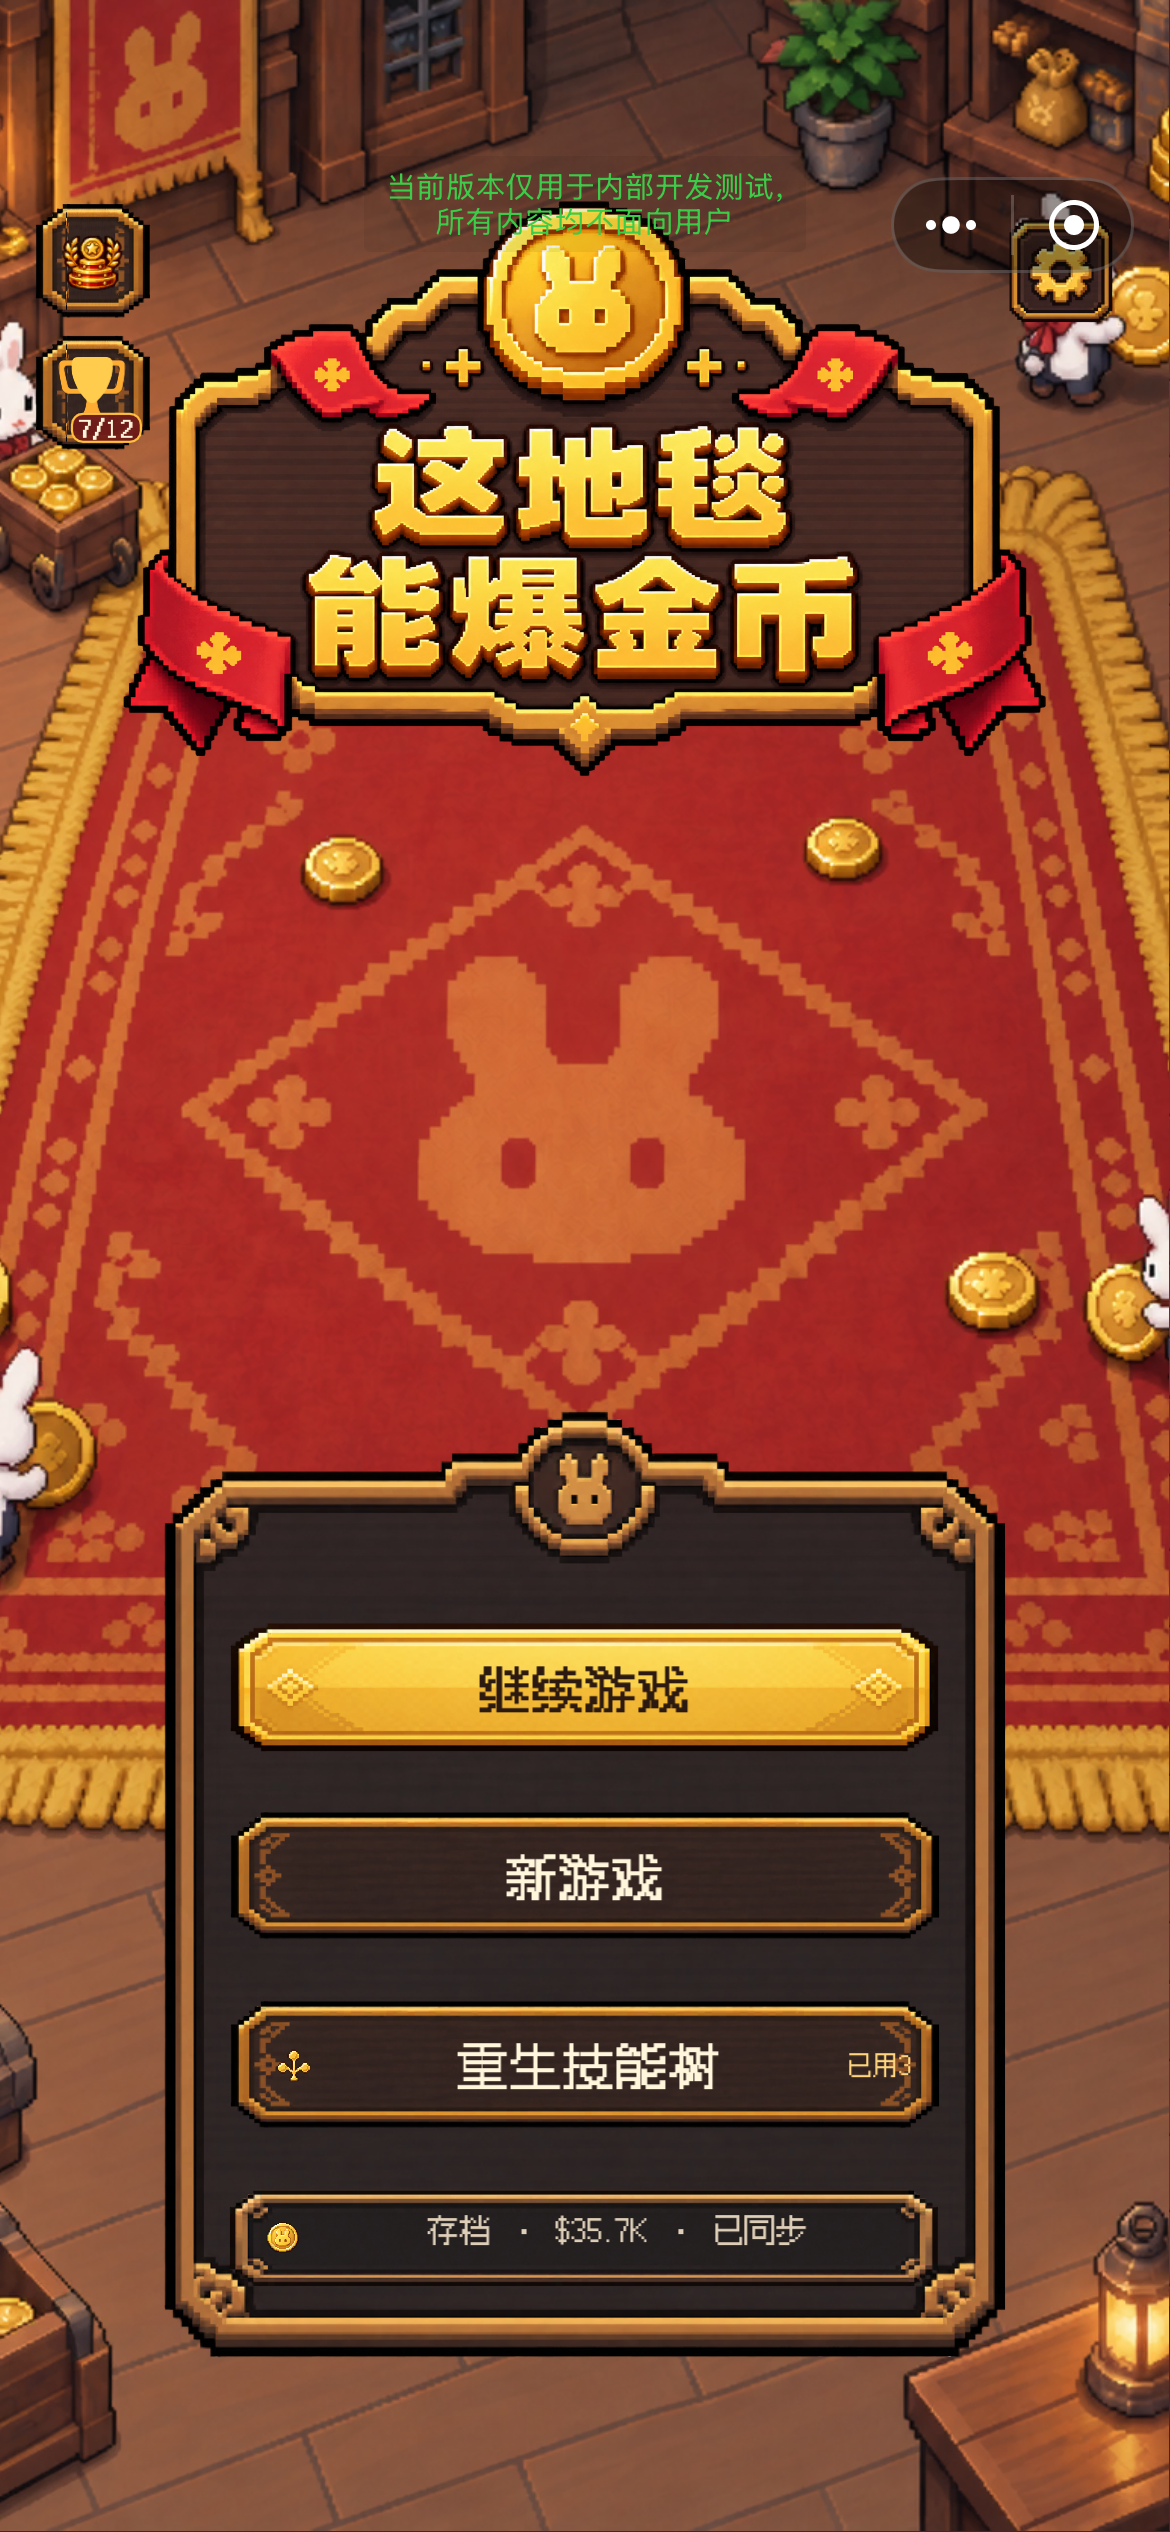
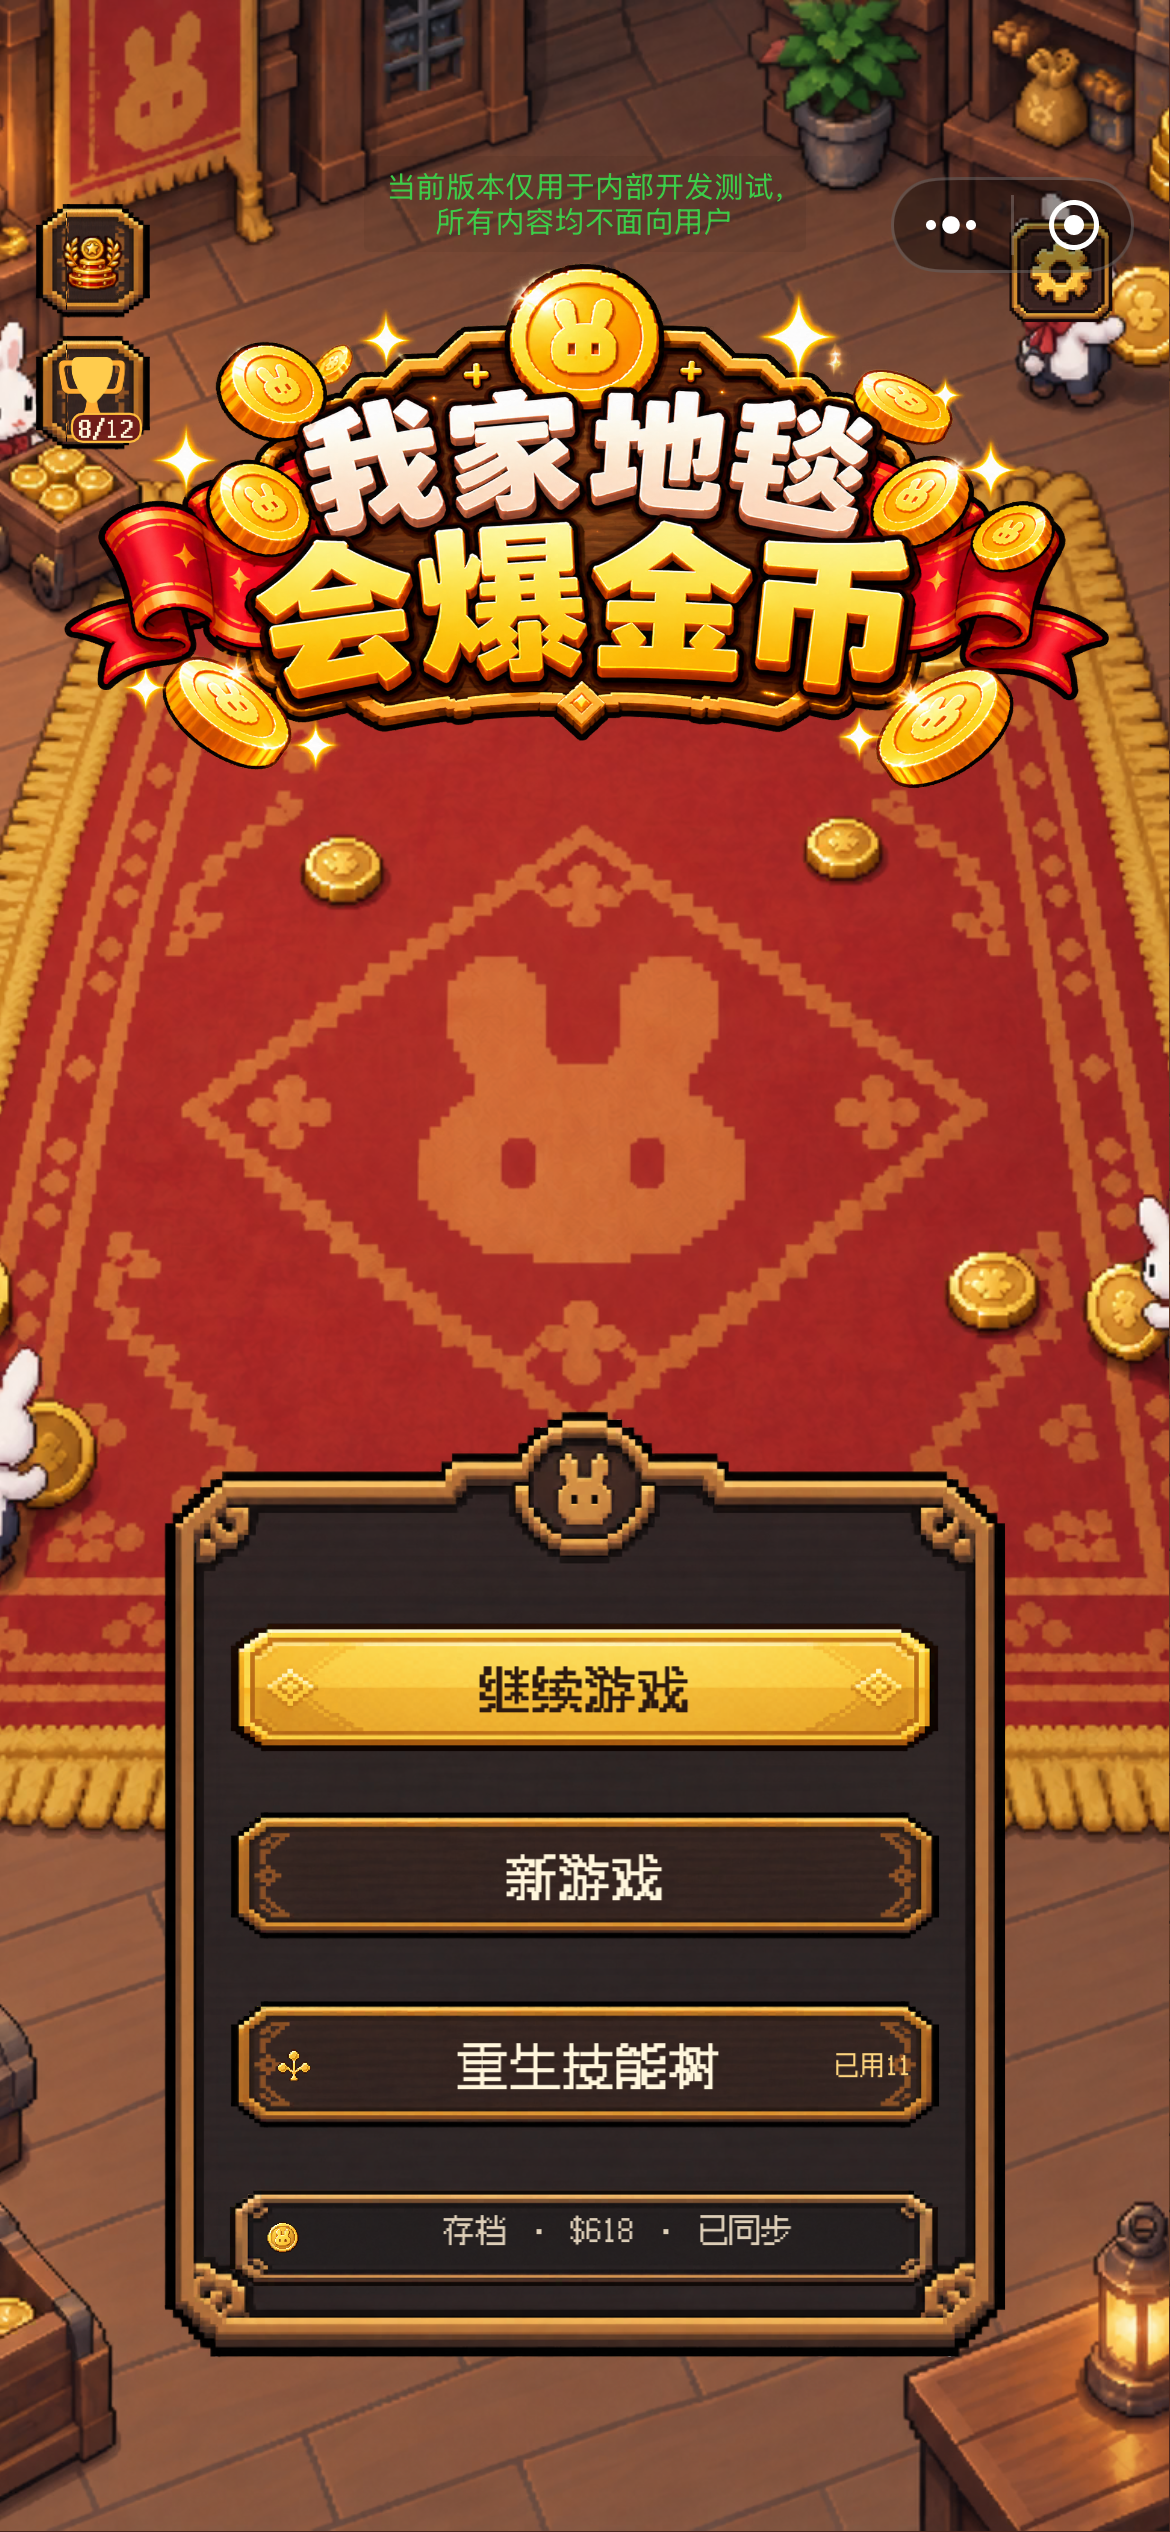
feat: change name

diff --git a/src/views/Products.vue b/src/views/Products.vue
@@ -1,6 +1,6 @@
 <template>
   <div class="grid-background">
-    <!-- 这地毯能爆金币展示 -->
+    <!-- 我家地毯会爆金币展示 -->
     <section class="hero-section">
       <div class="container-max">
         <div class="grid grid-cols-1 lg:grid-cols-2 gap-12 items-start">
@@ -98,13 +98,13 @@
                 <div class="w-20 h-20 rounded-2xl overflow-hidden bg-gray-900/70 border border-white/10 shadow-xl">
                   <img
                     src="/images/games/flip-coin/logo.png"
-                    alt="这地毯能爆金币logo"
+                    alt="我家地毯会爆金币logo"
                     class="w-full h-full object-cover"
                   >
                 </div>
                 <div>
                   <h1 class="text-3xl sm:text-4xl lg:text-5xl font-display font-bold text-white leading-tight">
-                    <span class="gradient-text">这地毯能爆金币</span>
+                    <span class="gradient-text">我家地毯会爆金币</span>
                   </h1>
                   <p class="text-xl text-gray-300 font-medium">Flip Coin</p>
                 </div>
@@ -113,7 +113,7 @@
 
             <div class="space-y-4">
               <p class="text-lg text-gray-300 leading-relaxed">
-                《这地毯能爆金币》是一款轻松解压的竖屏像素风增量游戏。从一枚硬币开始，在神奇的魔毯上不断抛币、翻面、爆金币！赚到的钱可以购买更多硬币，雇佣兔兔、忍者、牛仔等员工，让他们帮你自动抛币、拾取金币。解锁不同魔毯、连锁翻币和各种强力技能，让满屋子的硬币越翻越快、金币越爆越多！打造属于你的全自动金币生产线，不断重生强化，开启下一轮疯狂暴富之旅！
+                《我家地毯会爆金币》是一款轻松解压的竖屏像素风增量游戏。从一枚硬币开始，在神奇的魔毯上不断抛币、翻面、爆金币！赚到的钱可以购买更多硬币，雇佣兔兔、忍者、牛仔等员工，让他们帮你自动抛币、拾取金币。解锁不同魔毯、连锁翻币和各种强力技能，让满屋子的硬币越翻越快、金币越爆越多！打造属于你的全自动金币生产线，不断重生强化，开启下一轮疯狂暴富之旅！
               </p>
 
               <div class="space-y-3">

diff --git a/src/views/Home.vue b/src/views/Home.vue
@@ -6,7 +6,7 @@
       <div class="absolute inset-0">
         <img
           src="/images/games/flip-coin/banner.png"
-          alt="这地毯能爆金币游戏背景"
+          alt="我家地毯会爆金币游戏背景"
           class="w-full h-full object-cover"
         >
         <!-- 渐变遮罩 -->
@@ -41,12 +41,12 @@
                 <div class="w-16 h-16 rounded-xl overflow-hidden bg-amber-500/20 border border-amber-300/30">
                   <img
                     src="/images/games/flip-coin/logo.png"
-                    alt="这地毯能爆金币logo"
+                    alt="我家地毯会爆金币logo"
                     class="w-full h-full object-cover"
                   >
                 </div>
                 <div>
-                  <h2 class="text-2xl sm:text-3xl lg:text-4xl font-display font-bold gradient-text">这地毯能爆金币</h2>
+                  <h2 class="text-2xl sm:text-3xl lg:text-4xl font-display font-bold gradient-text">我家地毯会爆金币</h2>
                   <p class="text-lg lg:text-xl text-white font-medium" style="text-shadow: 1px 1px 3px rgba(0,0,0,0.8);">Flip Coin</p>
                 </div>
               </div>

diff --git a/scripts/fetch-taptap-stats.js b/scripts/fetch-taptap-stats.js
@@ -14,7 +14,7 @@ const TAP_XUA = encodeURIComponent(
 
 /** 与 src/data/games.ts 保持同步 */
 const games = [
-  { id: 'flip-coin', appId: 942322, title: '这地毯能爆金币' },
+  { id: 'flip-coin', appId: 942322, title: '我家地毯会爆金币' },
   { id: 'head-flick', appId: 923121, title: '吃我一记脑瓜崩' },
   { id: 'cleaning', appId: 904067, title: '完美清洁公司' },
   { id: 'egg-smash', appId: 910424, title: '一锤子买卖' },

diff --git a/scripts/copy-assets.js b/scripts/copy-assets.js
@@ -54,7 +54,7 @@ const assetMappings = [
     src: 'src/assets/images/games/head-flick',
     dest: 'public/images/games/head-flick'
   },
-  // 这地毯能爆金币图片
+  // 我家地毯会爆金币图片
   {
     src: 'src/assets/images/games/flip-coin',
     dest: 'public/images/games/flip-coin'

diff --git a/src/data/games.ts b/src/data/games.ts
@@ -28,7 +28,7 @@ export const hotGames: StudioGame[] = [
   },
   {
     id: 'flip-coin',
-    title: '这地毯能爆金币',
+    title: '我家地毯会爆金币',
     cover: '/images/games/flip-coin/logo.png',
     url: 'https://tap.cn/RWuqb0Q9',
     appId: 942322,
